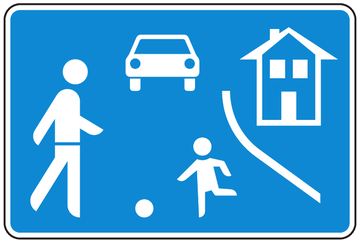
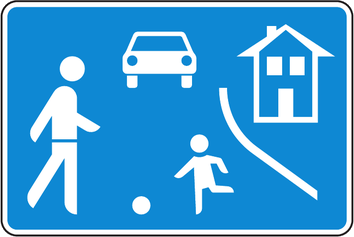
Lernszenen: Katalogbilder auf Schildkante zugeschnitten, Höhen neu aus dem Seitenverhältnis
Claude-Session: https://claude.ai/code/session_01DbS8C59U5vutawLFwQXRNg

diff --git a/lernszenen.js b/lernszenen.js
@@ -153,33 +153,33 @@
   // Teile: kat = Bild aus dem Verkehrszeichen-Katalog (schilder/kat/*.webp, aus dem FahrCampus, ADCO-Katalog 2026; h = w × Seitenverhältnis des Bilds),
   // svg = amtliche Vorlage (schilder/*.svg), mal = selbst gezeichnet (Koordinaten in mm) bzw. Ersatz, solange das Katalogbild lädt; w/h in mm bei Größe 2; form für Größe 3
   const VZ_TEIL = {
-    z205: { kat: "z205", w: 847.16, h: 749.7, form: "dreieck" },                // Seitenlänge 900, Ecken gerundet
-    z206: { kat: "z206", w: 900, h: 900, form: "achteck" },
-    z215: { kat: "z215", w: 600, h: 600, form: "ronde" },
-    z306: { kat: "z306", w: 848.5, h: 845.6, form: "quadrat" },                  // Seitenlänge 600, über Eck 849
+    z205: { kat: "z205", w: 847.16, h: 745.5, form: "dreieck" },                // Seitenlänge 900, Ecken gerundet
+    z206: { kat: "z206", w: 900, h: 900.0, form: "achteck" },
+    z215: { kat: "z215", w: 600, h: 600.0, form: "ronde" },
+    z306: { kat: "z306", w: 848.5, h: 848.5, form: "quadrat" },                  // Seitenlänge 600, über Eck 849
     z1002_10: { svg: "z1002-10", w: 601, h: 601, form: "zusatz" }, z1002_11: { svg: "z1002-11", w: 601, h: 601, form: "zusatz" },
     z1002_20: { svg: "z1002-20", w: 601, h: 601, form: "zusatz" }, z1002_21: { svg: "z1002-21", w: 601, h: 601, form: "zusatz" },
-    z1022_10: { kat: "z1022-10", w: 600, h: 458.1, form: "zusatz" },
-    z220_20: { kat: "z220-20", w: 800, h: 317.8, form: "rechteck" },
-    z220_10: { kat: "z220-10", w: 800, h: 318.6, form: "rechteck" },
-    z250: { kat: "z250", w: 600, h: 598, form: "ronde" },
-    z267: { kat: "z267", w: 600, h: 600, form: "ronde" },
+    z1022_10: { kat: "z1022-10", w: 600, h: 452.1, form: "zusatz" },
+    z220_20: { kat: "z220-20", w: 800, h: 305.7, form: "rechteck" },
+    z220_10: { kat: "z220-10", w: 800, h: 304.3, form: "rechteck" },
+    z250: { kat: "z250", w: 600, h: 600.0, form: "ronde" },
+    z267: { kat: "z267", w: 600, h: 600.0, form: "ronde" },
     // ---- Katalogbild; die Zeichnung (mal) dient nur als Ersatz, solange das Bild lädt. 274: Katalog zeigt „60“, andere Zahlen werden auf die weiße Fläche gesetzt
-    z274: { kat: "z274", w: 600, h: 600, form: "ronde", mal: (g, w, h, sc) => { vzRing(g, w, VZ_ROT, "#fff"); vzText(g, sc.zahl, w / 2, w / 2, 0.4 * w, 0.62 * w, "#000"); } },
-    z276: { kat: "z276", w: 600, h: 600, form: "ronde", mal: (g, w) => { vzRing(g, w, VZ_ROT, "#fff"); vzAuto(g, 0.36 * w, 0.5 * w, 0.2 * w, VZ_ROT); vzAuto(g, 0.64 * w, 0.5 * w, 0.2 * w, "#000"); } },
-    z280: { kat: "z280", w: 600, h: 598, form: "ronde", mal: (g, w) => {
+    z274: { kat: "z274", w: 600, h: 602.1, form: "ronde", mal: (g, w, h, sc) => { vzRing(g, w, VZ_ROT, "#fff"); vzText(g, sc.zahl, w / 2, w / 2, 0.4 * w, 0.62 * w, "#000"); } },
+    z276: { kat: "z276", w: 600, h: 602.1, form: "ronde", mal: (g, w) => { vzRing(g, w, VZ_ROT, "#fff"); vzAuto(g, 0.36 * w, 0.5 * w, 0.2 * w, VZ_ROT); vzAuto(g, 0.64 * w, 0.5 * w, 0.2 * w, "#000"); } },
+    z280: { kat: "z280", w: 600, h: 600.0, form: "ronde", mal: (g, w) => {
       const r = w / 2; vzKreis(g, r, r, r, "#000"); vzKreis(g, r, r, r - 0.4 * w / 600, "#fff"); vzKreis(g, r, r, r - 10 * w / 600, "#6f6f6f"); vzKreis(g, r, r, r - 18 * w / 600, "#fff");
       vzAuto(g, 0.36 * w, 0.5 * w, 0.2 * w, "#8a8a8a"); vzAuto(g, 0.64 * w, 0.5 * w, 0.2 * w, "#8a8a8a");
       g.save(); g.beginPath(); g.arc(r, r, r - 18 * w / 600, 0, 7); g.clip(); g.strokeStyle = "#000"; g.lineWidth = 0.012 * w;
       for (let i = -2; i <= 2; i++) { const d = i * 0.035 * w; g.beginPath(); g.moveTo(r - 0.5 * w + d, r + 0.5 * w + d); g.lineTo(r + 0.5 * w + d, r - 0.5 * w + d); g.stroke(); } g.restore(); } },
-    z283: { kat: "z283", w: 600, h: 602, form: "ronde", mal: (g, w) => vzHaltverbot(g, w, true) },
-    z286: { kat: "z286", w: 600, h: 600, form: "ronde", mal: (g, w) => vzHaltverbot(g, w, false) },
-    z224: { kat: "z224", w: 420, h: 420, form: "fest", mal: (g, w) => {   // Haltestelle (VzKat nur 420): gelb, grüner Ring, grünes H
+    z283: { kat: "z283", w: 600, h: 600.0, form: "ronde", mal: (g, w) => vzHaltverbot(g, w, true) },
+    z286: { kat: "z286", w: 600, h: 597.9, form: "ronde", mal: (g, w) => vzHaltverbot(g, w, false) },
+    z224: { kat: "z224", w: 420, h: 418.5, form: "fest", mal: (g, w) => {   // Haltestelle (VzKat nur 420): gelb, grüner Ring, grünes H
       const r = w / 2, k = w / 420; vzKreis(g, r, r, r, "#000"); vzKreis(g, r, r, r - 0.4 * k, "#fff"); vzKreis(g, r, r, r - 7 * k, VZ_GRUEN); vzKreis(g, r, r, r - 35 * k, VZ_GELB);
       vzText(g, "H", r, r, 0.5 * w, 0.5 * w, VZ_GRUEN); } },
-    zone30: { kat: "z274p1", w: 840, h: 840, form: "fest", mal: (g, w, h) => {   // 274.1 (VzKat 840 × 840): Zeichen 274 (Ø 480) über „ZONE“
+    zone30: { kat: "z274p1", w: 840, h: 840.0, form: "fest", mal: (g, w, h) => {   // 274.1 (VzKat 840 × 840): Zeichen 274 (Ø 480) über „ZONE“
       vzRahmen(g, w, h); g.save(); g.translate(w / 2 - 240, 70); vzRing(g, 480, VZ_ROT, "#fff"); vzText(g, "30", 240, 240, 192, 300, "#000"); g.restore(); vzText(g, "ZONE", w / 2, 690, 120, 560, "#000"); } },
-    z201: { kat: "z201-50", w: 850, h: 1256.9, form: "fest", mal: (g, w, h) => {   // Andreaskreuz (Katalog stehend; Maß geschätzt), Ersatz: Balken 1350 × 180
+    z201: { kat: "z201-50", w: 850, h: 1285.7, form: "fest", mal: (g, w, h) => {   // Andreaskreuz (Katalog stehend; Maß geschätzt), Ersatz: Balken 1350 × 180
       g.save(); g.translate(w / 2, h / 2); [0.611, -0.611].forEach(a => { g.save(); g.rotate(a); g.fillStyle = VZ_ROT; g.fillRect(-675, -90, 1350, 180); g.restore(); });
       [0.611, -0.611].forEach(a => { g.save(); g.rotate(a); g.fillStyle = "#fff"; g.fillRect(-645, -60, 1290, 120); g.restore(); }); g.restore(); } },
     z450: { w: 650, h: 1500, form: "fest", mal: (g, w, h, sc) => {   // Ankündigungsbake 650 × 1500, rote Schrägbalken zur Fahrbahn hin fallend
@@ -187,19 +187,19 @@
       g.save(); g.beginPath(); g.rect(0, 0, w, h); g.clip(); g.fillStyle = VZ_ROT; const n = +sc.zahl, st = 220;
       for (let i = 0; i < n; i++) { const y = h / 2 + (i - (n - 1) / 2) * 2.1 * st; g.beginPath(); g.moveTo(-20, y + 0.55 * w); g.lineTo(w + 20, y - 0.55 * w + 0); g.lineTo(w + 20, y - 0.55 * w + st); g.lineTo(-20, y + 0.55 * w + st); g.closePath(); g.fill(); }
       g.restore(); } },
-    z1000_32: { kat: "z1000-32", w: 600, h: 456.1, form: "zusatz", mal: (g, w, h) => { vzRahmen(g, w, h); vzRad(g, w / 2, 0.37 * h, 0.25 * w, "#000"); vzPfeil(g, 70, w - 70, 0.78 * h, 30, "#000"); } },   // Radverkehr kreuzt von links und rechts
-    z1020_30: { kat: "z1020-30", w: 600, h: 342.5, form: "zusatz", mal: (g, w, h) => { vzRahmen(g, w, h); vzText(g, "Anlieger frei", w / 2, h / 2, 110, w - 110, "#000"); } },
+    z1000_32: { kat: "z1000-32", w: 600, h: 454.2, form: "zusatz", mal: (g, w, h) => { vzRahmen(g, w, h); vzRad(g, w / 2, 0.37 * h, 0.25 * w, "#000"); vzPfeil(g, 70, w - 70, 0.78 * h, 30, "#000"); } },   // Radverkehr kreuzt von links und rechts
+    z1020_30: { kat: "z1020-30", w: 600, h: 331.7, form: "zusatz", mal: (g, w, h) => { vzRahmen(g, w, h); vzText(g, "Anlieger frei", w / 2, h / 2, 110, w - 110, "#000"); } },
     zkfz: { w: 600, h: 450, form: "zusatz", mal: (g, w, h) => { vzRahmen(g, w, h); vzText(g, "Kraftfahrzeuge", w / 2, 0.36 * h, 92, w - 100, "#000"); vzText(g, "frei", w / 2, 0.7 * h, 92, w - 100, "#000"); } },
-    z244_1: { kat: "z244p1", w: 600, h: 600, form: "quadrat", mal: (g, w, h) => vzFahrradstr(g, w, h, false) },
-    z244_2: { kat: "z244p2", w: 600, h: 597.9, form: "quadrat", mal: (g, w, h) => vzFahrradstr(g, w, h, true) },
-    z325_1: { kat: "z325p1", w: 900, h: 607.5, form: "rechteck", mal: (g, w, h) => vzBeruhigt(g, w, h, false) },
-    z325_2: { kat: "z325p2", w: 900, h: 607.5, form: "rechteck", mal: (g, w, h) => vzBeruhigt(g, w, h, true) },
+    z244_1: { kat: "z244p1", w: 600, h: 600.0, form: "quadrat", mal: (g, w, h) => vzFahrradstr(g, w, h, false) },
+    z244_2: { kat: "z244p2", w: 600, h: 600.0, form: "quadrat", mal: (g, w, h) => vzFahrradstr(g, w, h, true) },
+    z325_1: { kat: "z325p1", w: 900, h: 602.5, form: "rechteck", mal: (g, w, h) => vzBeruhigt(g, w, h, false) },
+    z325_2: { kat: "z325p2", w: 900, h: 602.5, form: "rechteck", mal: (g, w, h) => vzBeruhigt(g, w, h, true) },
     // ---- Katalogbild, Ersatz alte Zeichnung; z531, vorweg, weg: nicht im Katalog, in mm gezeichnet (Ziele wie auf 332 aus dem Katalog)
-    z350: { kat: "z350-10", w: 600, h: 600, form: "quadrat", alt: true, mal: vzAlt("z350", [8, 8, 112, 112]) },
-    z330: { kat: "z330p1", w: 600, h: 600, form: "quadrat", alt: true, mal: vzAlt("z330", [6, 6, 116, 116]) },
+    z350: { kat: "z350-10", w: 600, h: 597.8, form: "quadrat", alt: true, mal: vzAlt("z350", [8, 8, 112, 112]) },
+    z330: { kat: "z330p1", w: 600, h: 598.0, form: "quadrat", alt: true, mal: vzAlt("z330", [6, 6, 116, 116]) },
     z531: { w: 1250, h: 1600, form: "fest", mal: vzEinengung },
-    z332: { kat: "z332", w: 2800, h: 2364.4, form: "fest", alt: true, mal: vzAlt("z332", [4, 24, 120, 80]) },
-    z333: { kat: "z333", w: 1500, h: 400, form: "fest", alt: true, mal: vzAlt("z333", [10, 10, 108, 108]) },
+    z332: { kat: "z332", w: 2800, h: 2349.2, form: "fest", alt: true, mal: vzAlt("z332", [4, 24, 120, 80]) },
+    z333: { kat: "z333", w: 1500, h: 400.0, form: "fest", alt: true, mal: vzAlt("z333", [10, 10, 108, 108]) },
     vorweg: { w: 3500, h: 2600, form: "fest", mal: (g, w, h) => vzVorweg(g, w, h, "1000 m") },
     weg: { w: 3500, h: 2600, form: "fest", mal: (g, w, h) => vzVorweg(g, w, h, "500 m") }
   };
